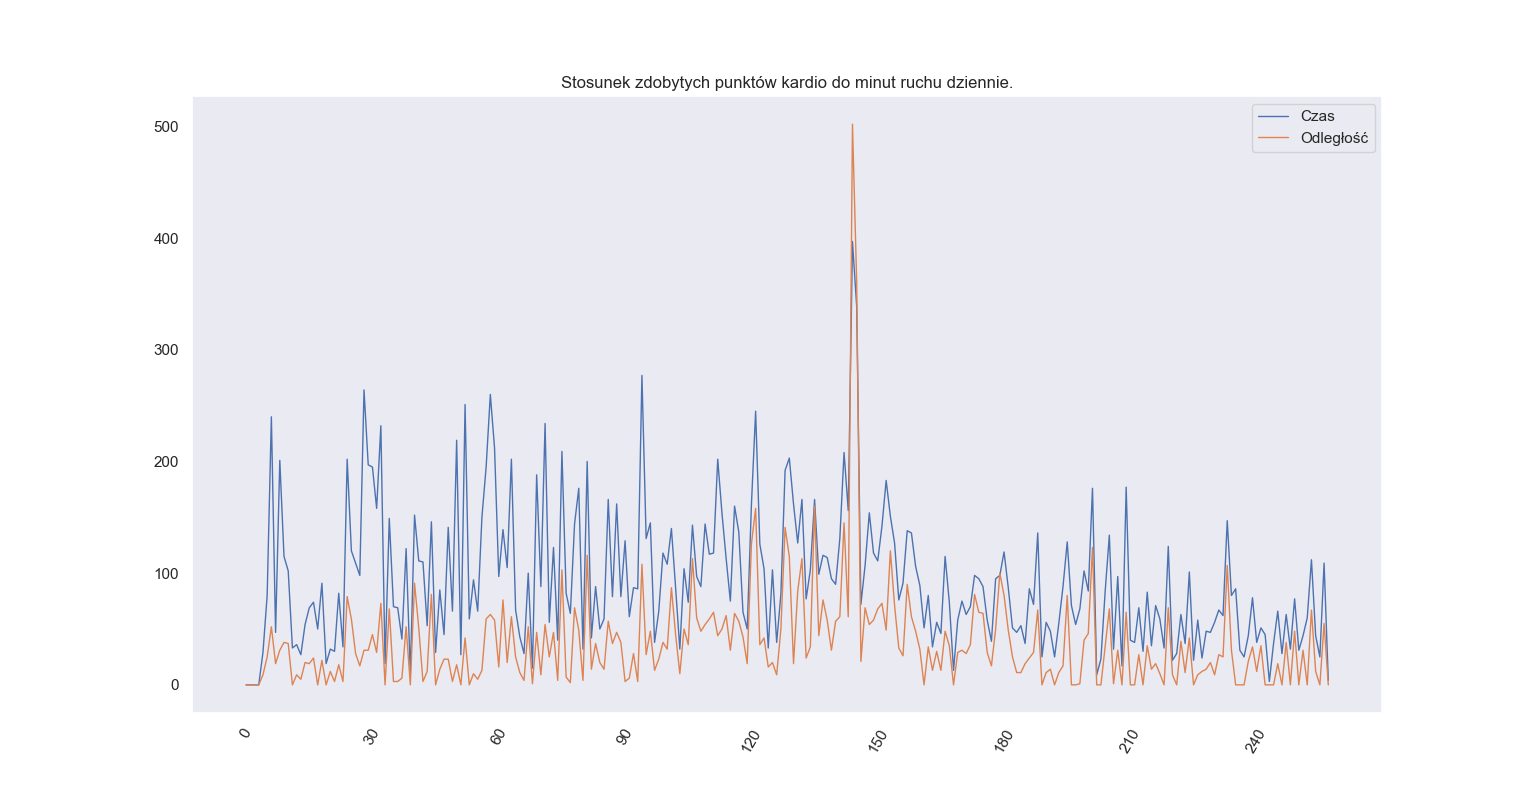
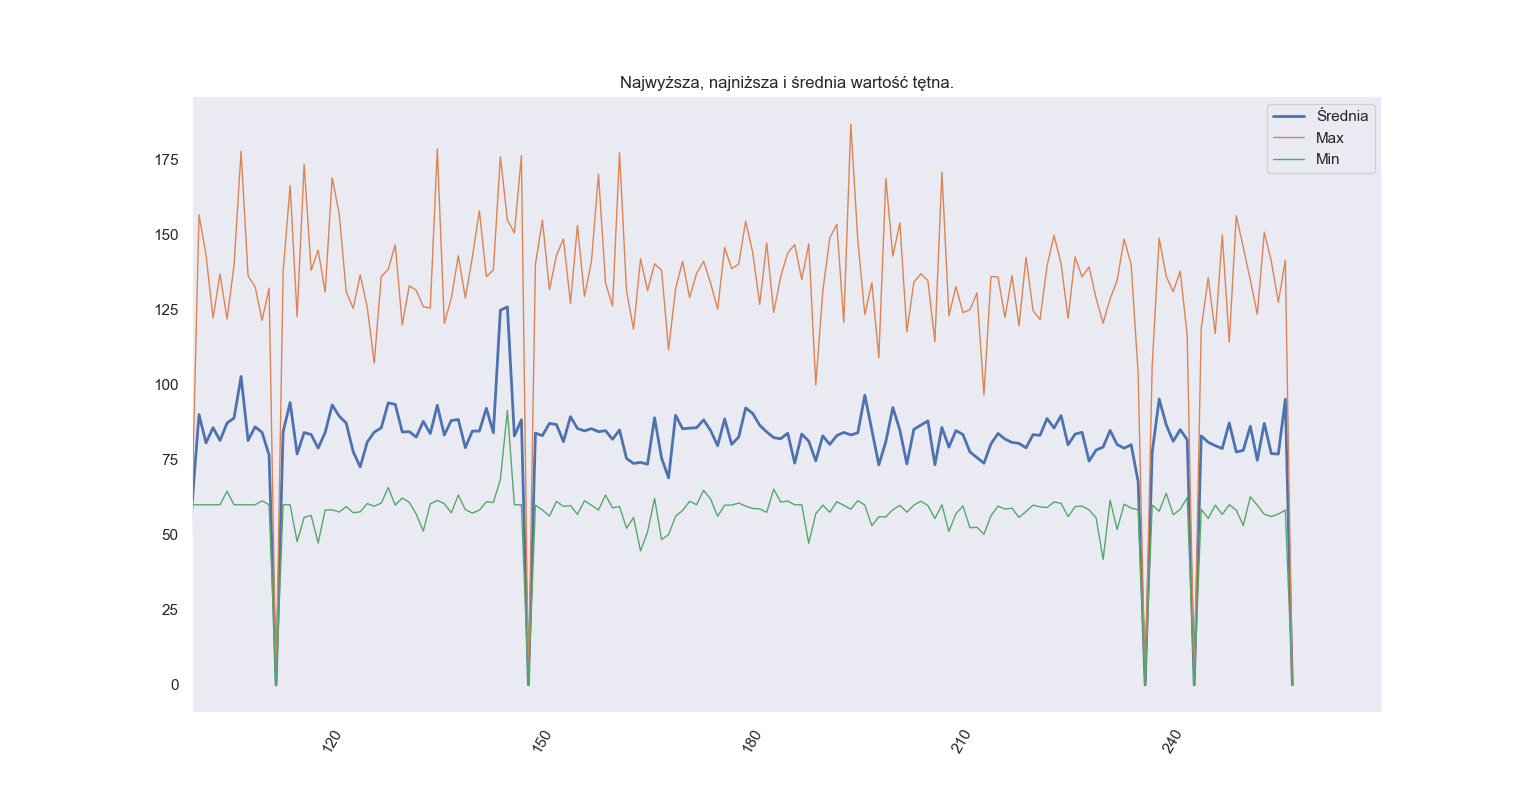
poprawk

diff --git a/googleFitDataVisualisation.py b/googleFitDataVisualisation.py
@@ -97,7 +97,7 @@ class VisualiseData():
 
         fig, ax = plt.subplots()
         ax.plot(movingTime.iloc[:,1], linewidth = 1, label = 'Czas')
-        ax.plot(cardioPoints.iloc[:,1], linewidth = 1, label = 'Odległość')
+        ax.plot(cardioPoints.iloc[:,1], linewidth = 1, label = 'Punkty kardio')
         plt.xticks(timeIndexMonth, rotation = 60)
         ax.legend()
         ax.set_title("Stosunek zdobytych punktów kardio do minut ruchu dziennie.")
@@ -115,11 +115,11 @@ cpmvPlot = plotter.visualiseMovingCardio(minutes, cardio)
 #lista = (pulsePlot, distancePlot)
 #print(lista)
 
-writer = PlotWriter()
-writer.writePlot(pulsePlot)
-writer.writePlot(distancePlot)
-writer.writePlot(caloriesPlot)
-writer.writePlot(cpPlot)
-writer.writePlot(stepsPlot)
-writer.writePlot(minutesPlot)
-writer.writePlot(cpmvPlot)
+#writer = PlotWriter()
+#writer.writePlot(pulsePlot)
+#writer.writePlot(distancePlot)
+#writer.writePlot(caloriesPlot)
+#writer.writePlot(cpPlot)
+#writer.writePlot(stepsPlot)
+#writer.writePlot(minutesPlot)
+#writer.writePlot(cpmvPlot)
